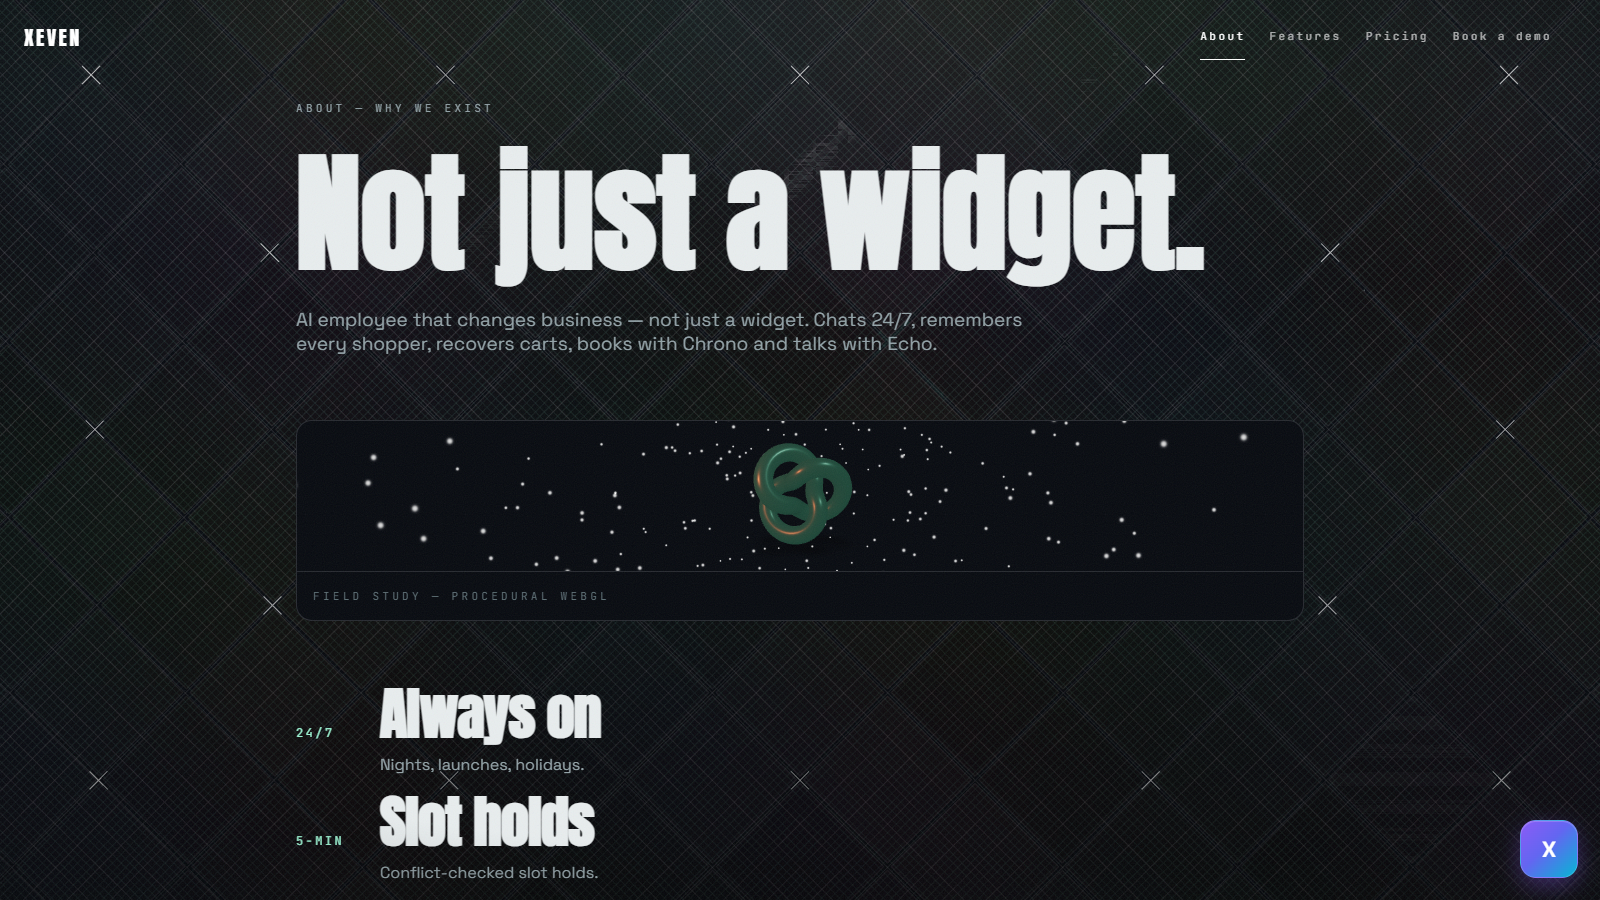
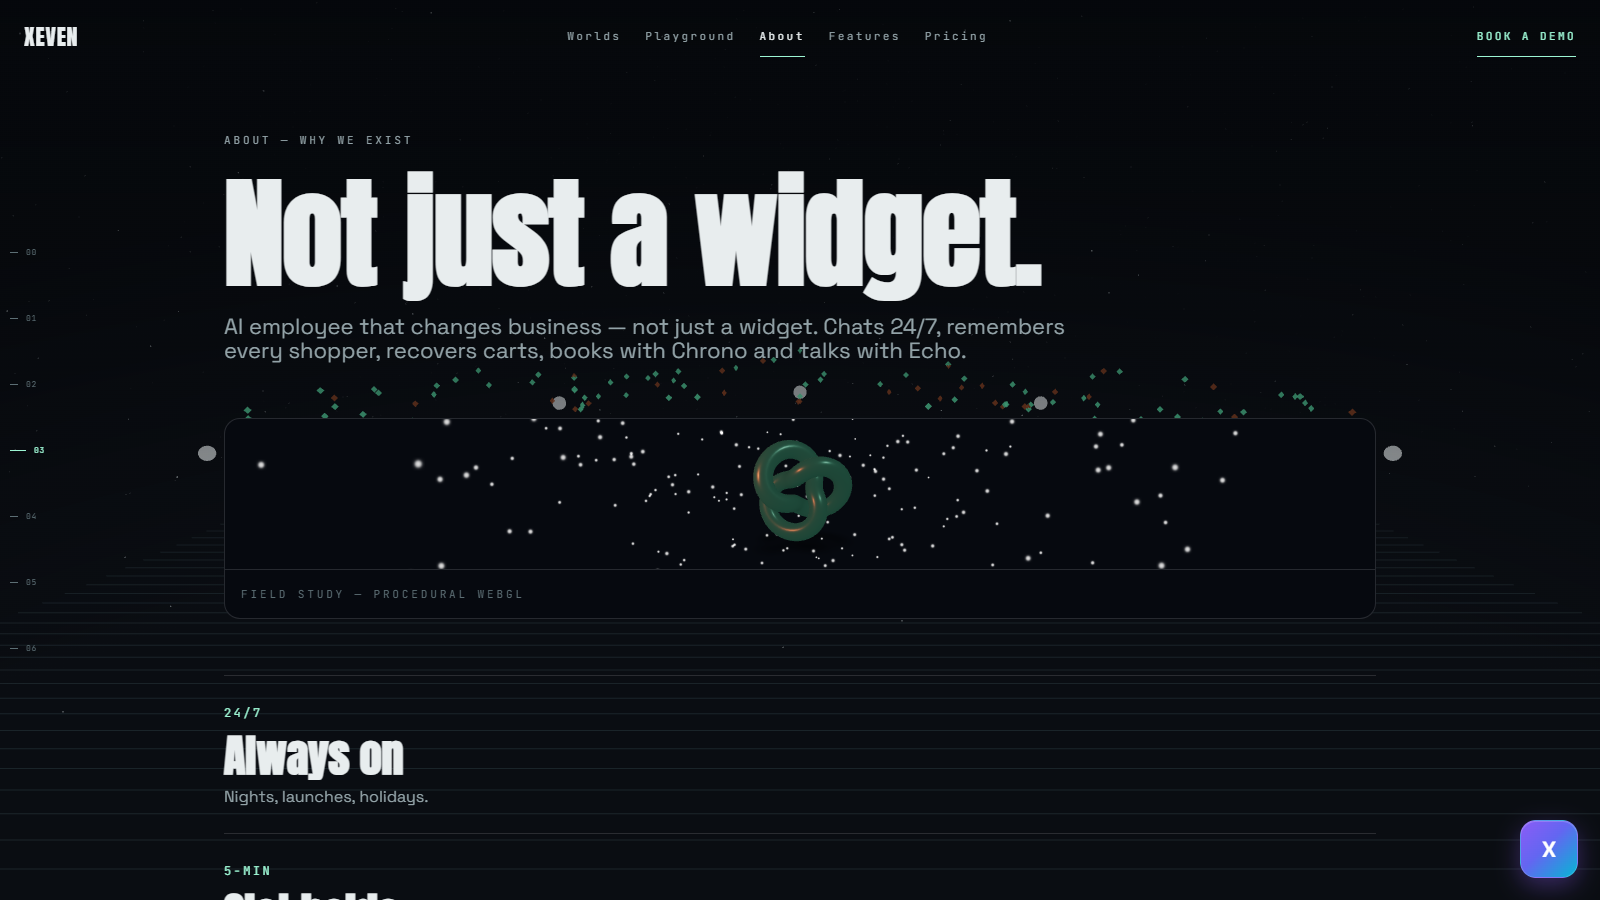
Live verify: SHIFT surfaces on production, probe fix

diff --git a/backlog.md b/backlog.md
@@ -69,4 +69,5 @@ Scope frozen: map-only phase found zero blank routes, zero dead links, zero cons
 - [x] Alt-stack install (free/open replacements for ThreeUI-Pro + MiniMax-H3, founder-picked): R3F+Drei+postprocessing (all MIT) + ShineBorder (Magic UI pattern, MIT, plain-CSS port, no Tailwind) + zod (missing page-agent peer — build was red before this work, now green). motion installed then REMOVED (124KB route chunk for one entrance failed the byte budget; observer + CSS does it for 0 bytes). Shipped surfaces only, per import-only rule: lazy R3F field-study vignette on About (own 163KB/52gzip chunk, three shared, never first paint, static panel + no entrance under reduced motion) + masked 1px shine ring on the Demo booking card (overlay, veil-safe after v1 washed through the translucent card). Fixed en route: knot underlit (ambient/spot up + ember rim), ring wash (mask-composite ring + inherit radius). REJECTED with evidence: local canvas-recorded VideoCard (captureStream gave 1006×150 on this box — unusable geometry; asset deleted, VideoCard back to kept-file status) and local LTX generation (2B distilled installed w/ weights in D:\\ltx-video, but the run OOM-dies silently on 8GB RAM — T5-XXL alone wants ~10GB; code + weights staged for a GPU box). Verified: build green, oxlint 3 pre-existing warnings, Edge 0 errors / 0 overflow, canvas + landed + caption + ring + card + inputs, reduced still/no-canvas. Frames VISUALLY VERIFIED (vignette knot + stars, clean card with hairline ring, no wash). Evidence: verify/alt-stack/e4-altstack.json + e4-about/demo/reduced.png, scripts/e4-altstack.mjs (+ e4-fieldrec.mjs recorder tool).
 - [x] Step 31–39 closed (mobile-enter baselines): 390px capture with 6s settle — intro already clear at settle, world canvas up, hero copy exact, 0 overflow, 0 errors. Frame VISUALLY VERIFIED (clean hero, no wash). Evidence: verify/alt-stack/e4-mobile-enter.json + e4-mobile-enter.png, scripts/e4-mobile-enter.mjs.
 - [x] Live smoke on production (unblocks Step 100-note): dfda067 auto-deployed + alias pinned; https://xeven-7.vercel.app serves the new build first try — about canvas + demo ring + inputs, 0 overflow, 0 errors. Frame VISUALLY VERIFIED (live vignette + knot + caption). Evidence: verify/alt-stack/e4-live.json + e4-live-about/demo.png, scripts/e4-live.mjs.
-- [x] SHIFT rebuild (full redesign, Living Shift concept): 7 routes (enter/worlds/playground/about/features/pricing/demo), persistent ShiftWorld field (station beacons + packet rails + per-route retint, replaces VoidWorld — deleted), new App shell + chrome, Playground scripted employee brain (booking/cart/memory/KB grounding + handoff), Worlds stations, rebuilt About/Features/Pricing/Demo on product.ts copy. Discipline kept: lazy route chunks (1–7KB), three shared, R3F lazy, reduced stand-downs, 2 oxlint warnings (pre-existing patterns). Fixed en route: hero scale (CTAs + ledger now in-fold), playground transcript height, Gate/EnterStage type errors. Verified: build green, all 7 routes + reduced pass, 0 errors / 0 overflow. Frames VISUALLY VERIFIED (hero + ledger, console, stations). Evidence: verify/shift/e5-shift.json + s-*.png, scripts/e5-shift.mjs.
+- [x] SHIFT rebuild (full redesign, Living Shift concept) 7 routes (enter/worlds/playground/about/features/pricing/demo), persistent ShiftWorld field (station beacons + packet rails + per-route retint, replaces VoidWorld — deleted), new App shell + chrome, Playground scripted employee brain (booking/cart/memory/KB grounding + handoff), Worlds stations, rebuilt About/Features/Pricing/Demo on product.ts copy. Discipline kept: lazy route chunks (1–7KB), three shared, R3F lazy, reduced stand-downs, 2 oxlint warnings (pre-existing patterns). Fixed en route: hero scale (CTAs + ledger now in-fold), playground transcript height, Gate/EnterStage type errors. Verified: build green, all 7 routes + reduced pass, 0 errors / 0 overflow. Frames VISUALLY VERIFIED (hero + ledger, console, stations). Evidence: verify/shift/e5-shift.json + s-*.png, scripts/e5-shift.mjs.
+- [x] SHIFT deployed + live-verified: 7196ccf auto-deployed, alias pinned; production serves all new surfaces — about canvas, demo ring, 3 worlds stations, playground bot + composer, 0 overflow, 0 errors. First poll hit the stale build (field-study marker ambiguous) — probe fixed to new-only `.station` marker. Frame VISUALLY VERIFIED (live playground console + plan cards). Evidence: refreshed verify/alt-stack/e4-live.json + e4-live-worlds/playground.png.
